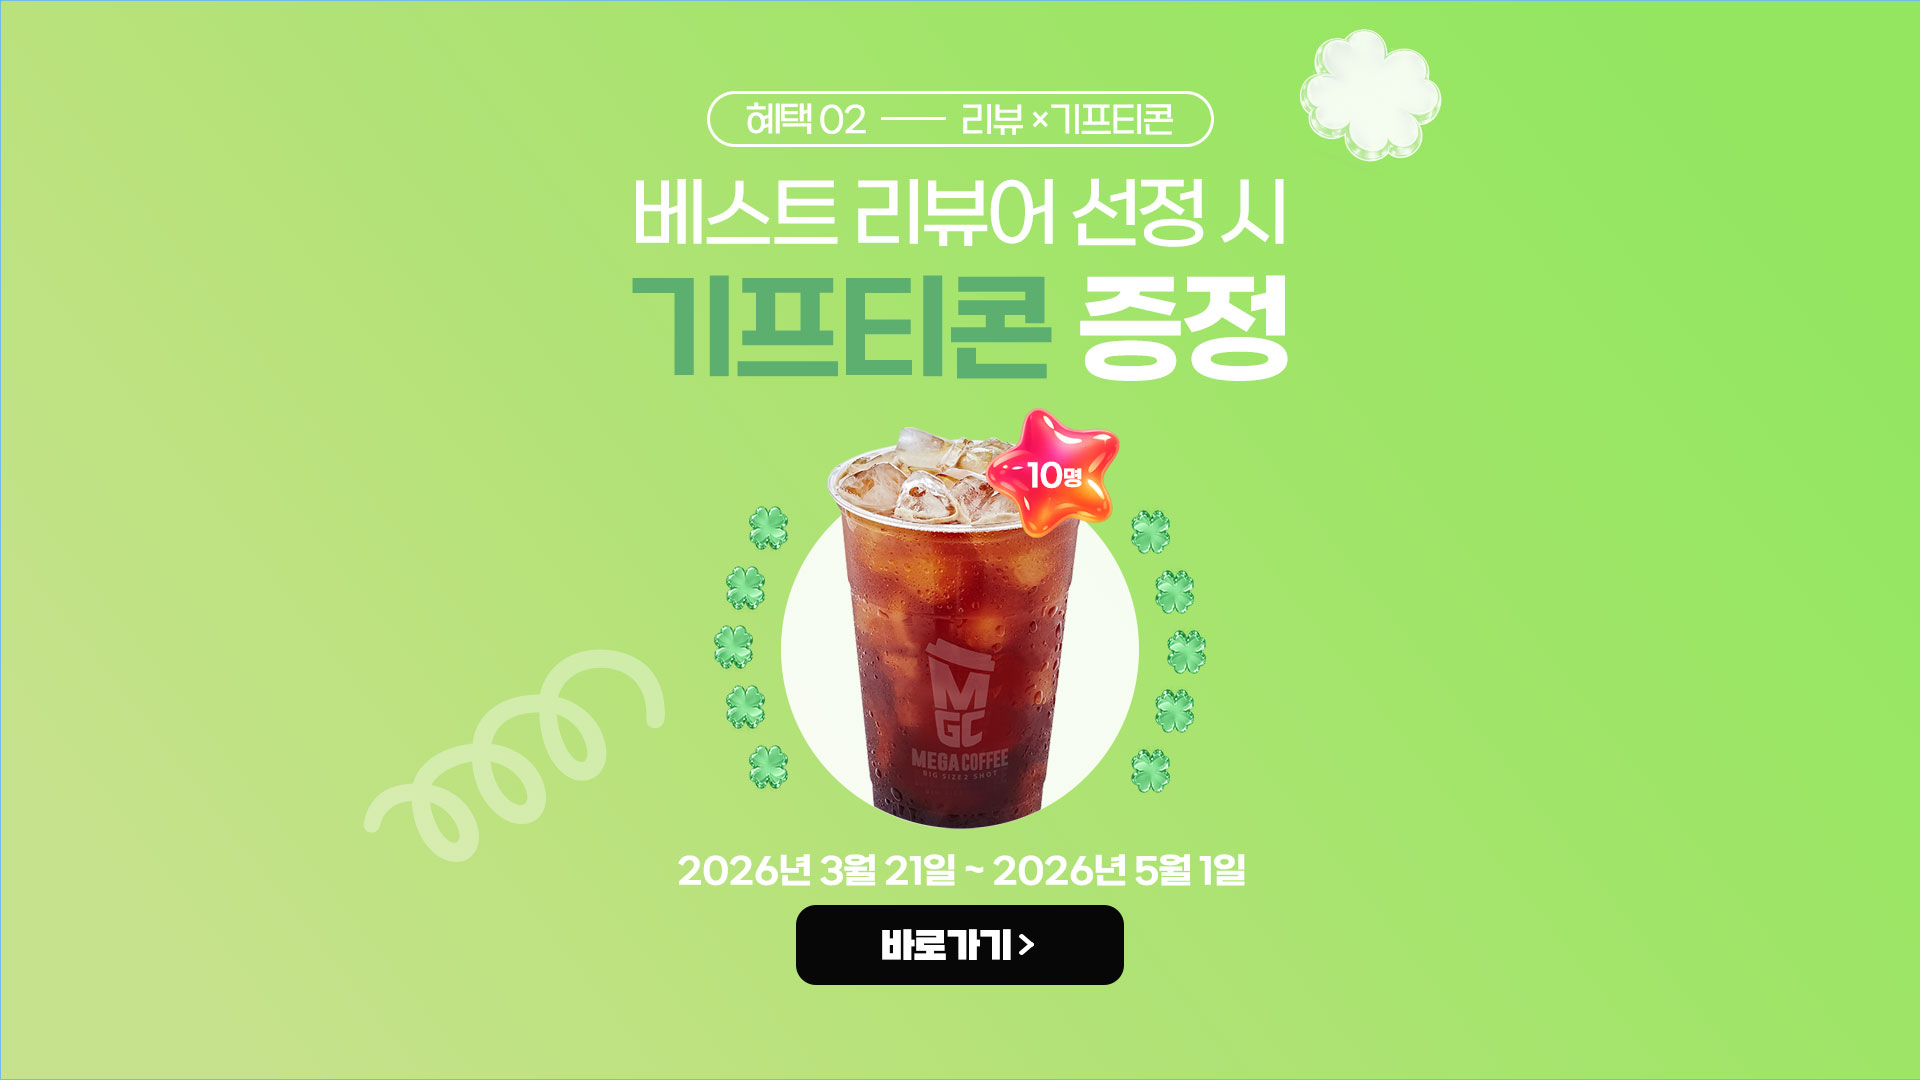
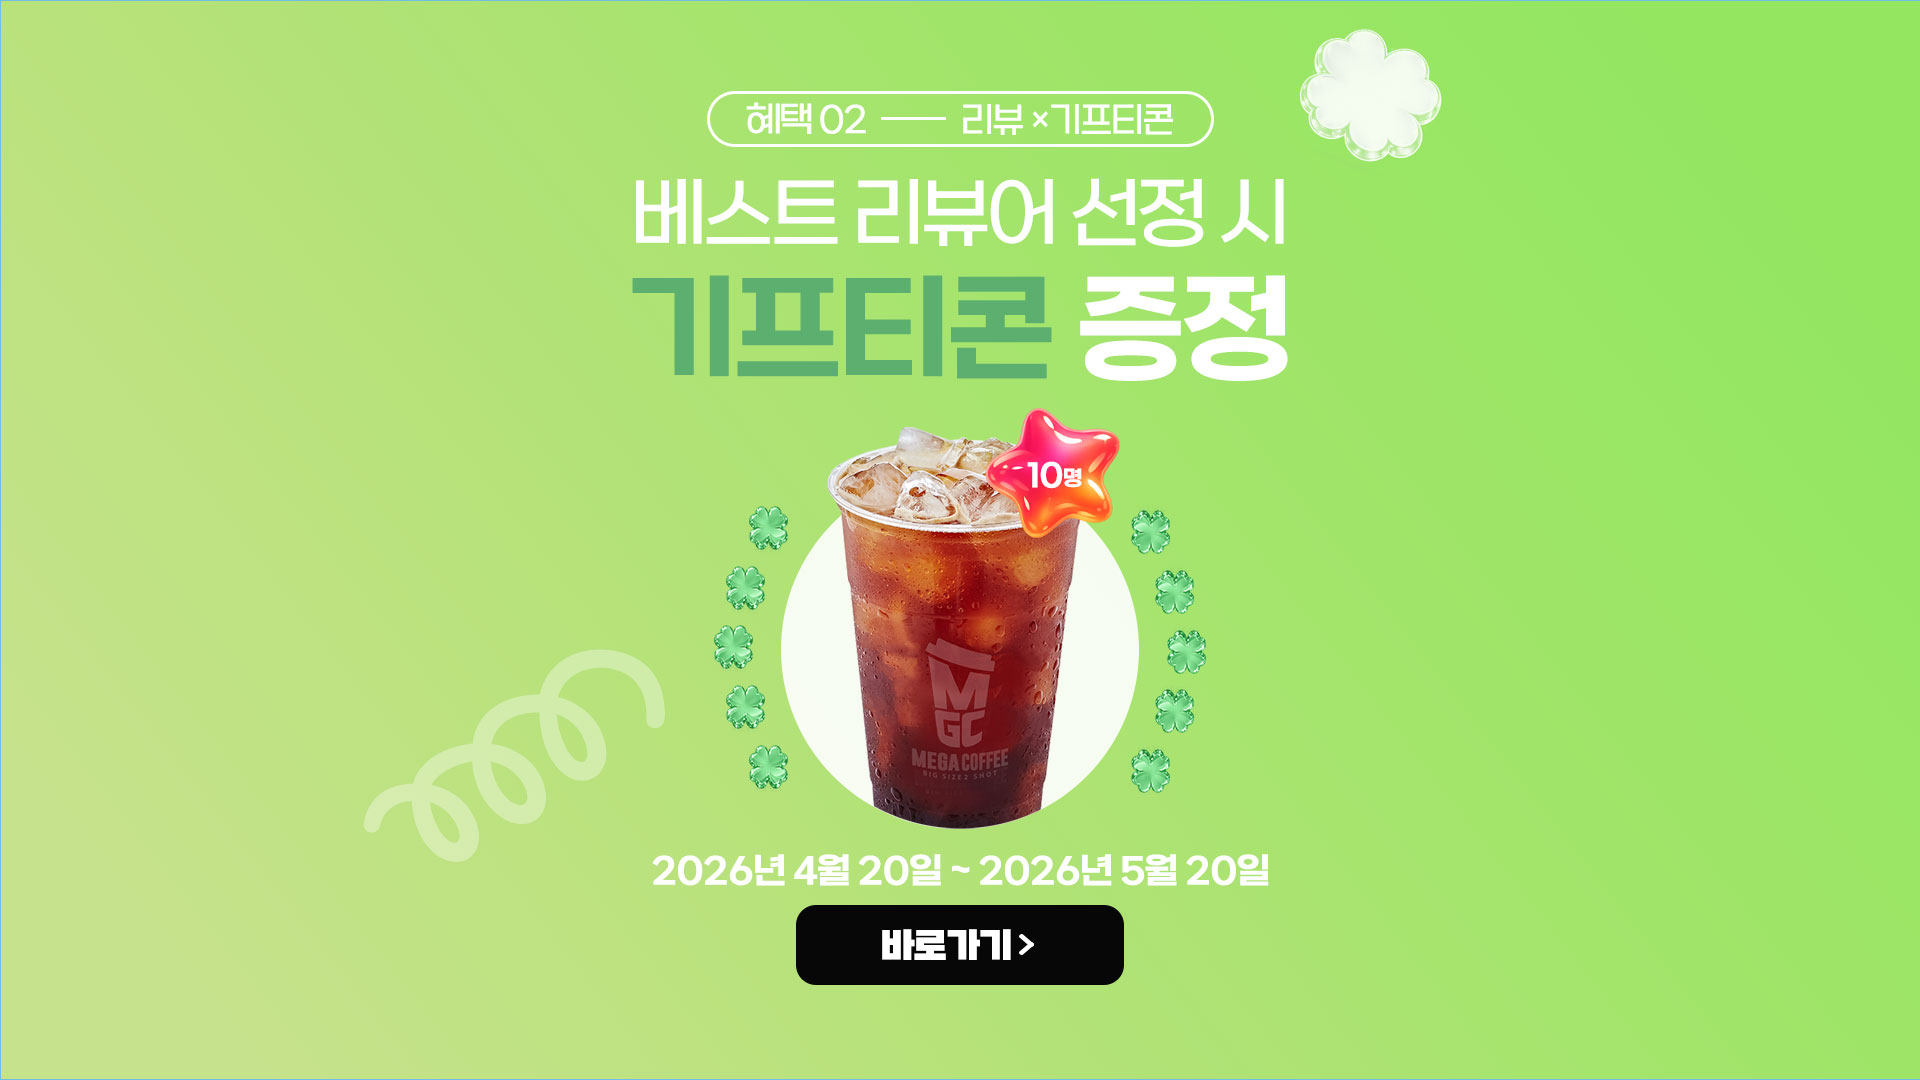
chore: [김정민] 이벤트 기간 변경

Changed region(s): [[0.3438, 0.7944, 0.6875, 0.825]]

diff --git a/main-container/src/event/page/NewEventPage.tsx b/main-container/src/event/page/NewEventPage.tsx
@@ -200,8 +200,8 @@ const Badge = styled.div<{ $type: BadgeType }>`
             "Segoe UI",
             sans-serif;
 
-    font-size: 12px;
-    font-weight: 500;
+    font-size: 14px;
+    font-weight: 400;
     letter-spacing: -0.2px;
     line-height: 1;
     white-space: nowrap;
@@ -312,8 +312,8 @@ const DUMMY: EventItem[] = [
         id: 1,
         title: "오픈 이벤트",
         isNew: true,
-        startDate: "2026-03-21",
-        endDate: "2026-05-01",
+        startDate: "2026-04-20",
+        endDate: "2026-05-20",
         imageUrl: event1,
         status: "ONGOING",
         badge: { type: "DDAY", text: "" },
@@ -322,8 +322,8 @@ const DUMMY: EventItem[] = [
         id: 2,
         title: "베스트 리뷰어 이벤트",
         isNew: true,
-        startDate: "2026-03-21",
-        endDate: "2026-05-01",
+        startDate: "2026-04-20",
+        endDate: "2026-05-20",
         imageUrl: event2,
         status: "ONGOING",
         badge: { type: "DDAY", text: "" },

diff --git a/main-container/src/event/page/NewEventDetailPage.tsx b/main-container/src/event/page/NewEventDetailPage.tsx
@@ -38,24 +38,24 @@ const DUMMY: EventItem[] = [
         id: 1,
         title: "오픈 이벤트",
         isNew: true,
-        startDate: "2026-03-08",
-        endDate: "2026-03-31",
+        startDate: "2026-04-20",
+        endDate: "2026-05-20",
         imageUrl: event1,
         status: "ONGOING",
         badge: { type: "DDAY", text: "D-30" },
         author: "관리자",
-        createdAt: "2026-03-15",
+        createdAt: "2026-04-20",
     },
     {
         id: 2,
         title: "베스트 리뷰어 이벤트",
-        startDate: "2026-03-15",
-        endDate: "2026-03-31",
+        startDate: "2026-04-20",
+        endDate: "2026-04-20",
         imageUrl: event2,
         status: "ONGOING",
         badge: { type: "DDAY", text: "D-30" },
         author: "관리자",
-        createdAt: "2026-03-15",
+        createdAt: "2026-04-20",
         detailImages: [reviewer1, reviewer2, reviewer3, reviewer4],
     },
 ];
